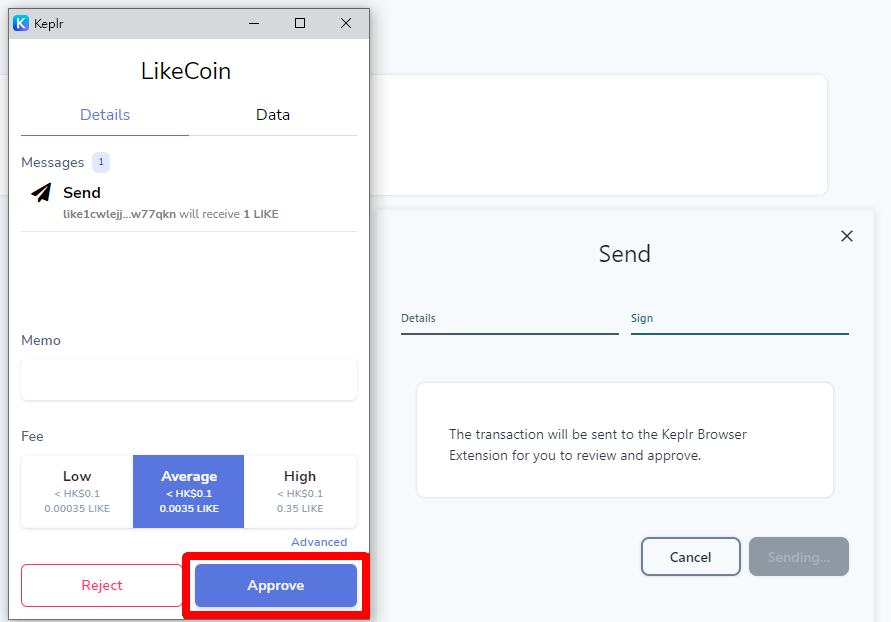
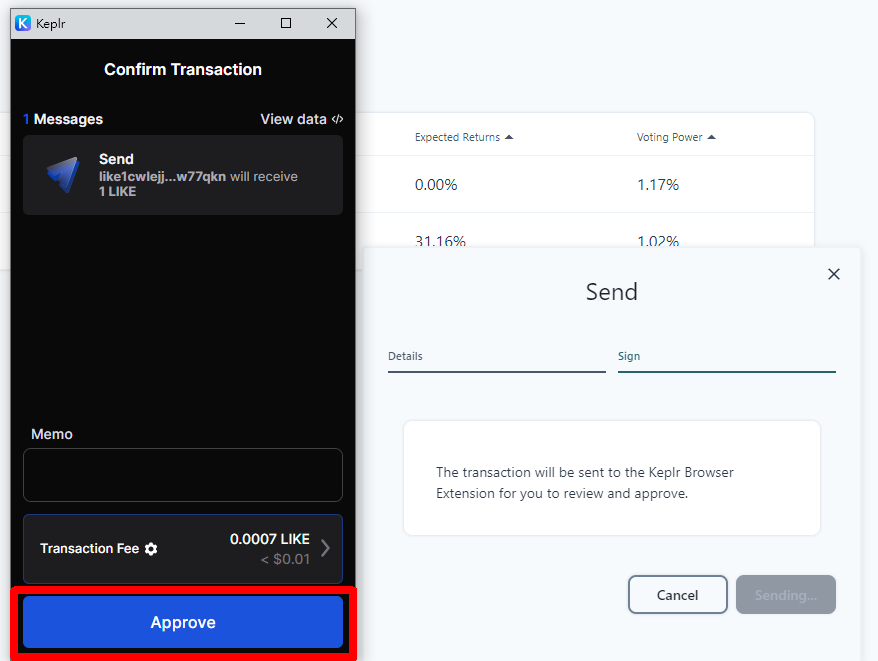
GITBOOK-4473: Keplr: Deposit and Send LikeCoin

diff --git a/general-guides/wallet/keplr/keplr-deposit-and-send-likecoin.md b/general-guides/wallet/keplr/keplr-deposit-and-send-likecoin.md
@@ -8,44 +8,42 @@ description: Deposit and Send LikeCoin directly on Keplr Browser Extension walle
 
 ### Step 1
 
-Before depositing LikeCoin to your Keplr wallet, please change the display on top to show the LikeCoin chain.
+To deposit LikeCoin to your Keplr wallet, please log in and click "Deposit".
 
-<figure><img src="../../../.gitbook/assets/Keplr deposit and send 01.png" alt=""><figcaption><p>Choose LikeCoin chain on Keplr</p></figcaption></figure>
+<figure><img src="../../../.gitbook/assets/Keplr Deposit 1.png" alt=""><figcaption><p>Click "Deposit".</p></figcaption></figure>
 
 ### Step 2
 
-Click on the wallet address to copy it and paste it somewhere else (a crypto exchange or another wallet). Or click "Deposit" to show your QR code.
+Click "Copy" to copy the wallet address and paste it somewhere else (such as a crypto exchange or another wallet). We suggest depositing a small sum first to try it out. You can also click the asterisk to prioritize the LikeCoin wallet address and have it appear at the top of the list for future use.
 
-<figure><img src="../../../.gitbook/assets/Keplr deposit and send 02.png" alt=""><figcaption><p>Copy the wallet address or click "Deposit" to display the QR code</p></figcaption></figure>
-
-Scan the QR code and deposit LikeCoin to your Keplr wallet with LIKE pay. We suggest depositing a small sum to try out first.
-
-<figure><img src="../../../.gitbook/assets/Keplr deposit and send 03.png" alt=""><figcaption><p>Scan the QR code to transfer LikeCoin to your Keplr wallet</p></figcaption></figure>
+<figure><img src="../../../.gitbook/assets/Keplr Deposit 2.png" alt=""><figcaption><p>Click "Copy" to copy the wallet address</p></figcaption></figure>
 
 ### Step 3
 
-The LikeCoin balance will appear (on the same screen as Step 2) after the deposit is completed.
+After the deposit is completed, the LikeCoin balance will appear on the same screen as Step 1.
 
 ## **Send LikeCoin from Keplr to another wallet**
 
 ### Step 1
 
-You can send LikeCoin via Keplr to another wallet that supports LikeCoin. Change the display on top to show the LikeCoin chain and click "Send".
+You can send LikeCoin from Keplr to another wallet that supports the LikeCoin chain. Click "Send" and then choose LikeCoin or click the LikeCoin balance below.
 
-<figure><img src="../../../.gitbook/assets/Keplr deposit and send 04.png" alt=""><figcaption><p>Click "Send"</p></figcaption></figure>
+<figure><img src="../../../.gitbook/assets/Keplr Send 1 (1).png" alt=""><figcaption><p>Click "Send" or LikeCoin balance</p></figcaption></figure>
+
+<figure><img src="../../../.gitbook/assets/Keplr Send 2 (1).png" alt=""><figcaption><p>Select LikeCoin</p></figcaption></figure>
 
 ### Step 2
 
-Fill in the wallet address of the recipient under "Recipient", and the token will be selected automatically as LIKE. The "Amount" field shows the available balance of LIKE in the wallet. Please enter the amount of LikeCoin that needs to be sent and reserve some LIKE for the [transaction fee](../transaction-fee.md). Under "Memo" (optional), fill in the tag/memo that may be required by the recipient. Then click "Send".
+The Send page will appear. Asset displaying your LikeCoin balance. Fill in the recipient's wallet address, the amount of LikeCoin to be sent, and optionally fill in any required tag/memo for the recipient. The estimated [transaction fee](../transaction-fee.md) will be displayed, so please ensure you have enough LIKE reserved for it. Then, click "Send".
 
-<figure><img src="../../../.gitbook/assets/Keplr deposit and send 05.png" alt=""><figcaption><p>Fill in the recipient's wallet address and the amount of LikeCoin to be sent, then click "Send"</p></figcaption></figure>
+<figure><img src="../../../.gitbook/assets/Keplr Send 3 (1).png" alt=""><figcaption><p>Enter the transfer information</p></figcaption></figure>
 
 ### Step 3
 
-On the confirmation screen, check the details again, and then click "Approve".
+On the confirmation screen, review the details again and click "Approve".
 
-<figure><img src="../../../.gitbook/assets/Keplr deposit and send 06.png" alt=""><figcaption><p>Confirm and click "Approve"</p></figcaption></figure>
+<figure><img src="../../../.gitbook/assets/Keplr Send 4 (1).png" alt=""><figcaption><p>Click "Approve"</p></figcaption></figure>
 
-The transaction is complete. Keplr will show that the Tx is pending and return to the LikeCoin balance screen.
+Returning to the home page, you will see "Transaction Success" indicating that the transfer is complete.
 
-![After Keplr shows Tx is pending, the transfer is completed](../../../.gitbook/assets/keplr13.png)
+<figure><img src="../../../.gitbook/assets/Keplr Send 5 (1).png" alt=""><figcaption><p>Transaction Success" indicating that the transfer is complete</p></figcaption></figure>

diff --git a/general-guides/wallet/keplr/dao.like.co.md b/general-guides/wallet/keplr/dao.like.co.md
@@ -6,45 +6,25 @@ description: Keplr + dao.like.co is essential for managing LikeCoin
 
 Use dao.like.co wallet interface together with [Keplr Browser Extension](../cosmostation-app/how-to-install-cosmostation-app.md) to [deposit](dao.like.co.md#deposit-your-likecoin-via-dao.like.co-to-keplr), [send](dao.like.co.md#using-dao.like.co-+-keplr-to-send-likecoin-to-another-wallet) and [delegate](../../stake/delegation-of-likecoin.md) LikeCoin; as well as provide [proposal deposit](../../governance/proposal-deposit.md), [vote](../../governance/direct-vote.md) and [view transaction details](../block-explorer/dao.like.co.md).
 
-## Connect Keplr with LikeCoin chain in dao.like.co
-
-Connect Keplr with LikeCoin chain on dao.like.co. In order for the LikeCoin chain to be displayed in the Keplr Browser extension menu, users have to connect to [https://chains.keplr.app/](https://chains.keplr.app/) or [dao.like.co](https://dao.like.co/).
-
-{% hint style="warning" %}
-The LikeCoin chain was successfully upgraded to the LaiChiKok version on May 4, 2022. The new LikeCoin wallet address has the prefix "like1" and also supports the "cosmos1" prefix. If your Keplr was installed before this date and you still use the cosmos1 prefix on the LikeCoin chain, you need to upgrade your wallet address. Please see the [New LikeCoin address prefix "like" - FAQ](../like-address-prefix.md) for details.
-{% endhint %}
+## Log in to dao.like.co
 
 ### Step 1
 
-Go to [dao.like.co](https://dao.like.co/) and click "Keplr Browser Extension".
+Login Keplr and go to [dao.like.co](https://dao.like.co/) and click "Keplr Browser Extension".
 
-<figure><img src="../../../.gitbook/assets/keplr06.png" alt=""><figcaption><p>Go to dao.like.co, click "Keplr Browser Extension"</p></figcaption></figure>
+<figure><img src="../../../.gitbook/assets/Keplr + dao.like.co 1.png" alt=""><figcaption><p>Go to dao.like.co, click "Keplr Browser Extension"</p></figcaption></figure>
 
 ### Step 2
 
 Then click "Approve" on Keplr.
 
-<figure><img src="../../../.gitbook/assets/keplr07.png" alt=""><figcaption><p>Click "Approve" on Keplr</p></figcaption></figure>
+<figure><img src="../../../.gitbook/assets/Keplr + dao.like.co 2.png" alt=""><figcaption><p>Click "Approve" on Keplr</p></figcaption></figure>
 
 ### Step 3
 
-Click "Approve" again.
-
-<figure><img src="../../../.gitbook/assets/keplr08.png" alt=""><figcaption><p>Click "Approve" on Keplr again</p></figcaption></figure>
-
-### Step 4
-
 You can see your LikeCoin balance.
 
-<figure><img src="../../../.gitbook/assets/keplr09.png" alt=""><figcaption><p>LikeCoin balance appears on dao.like.co</p></figcaption></figure>
-
-### Step 5
-
-LikeCoin chain appears in the Keplr menu and displays the LikeCoin balance.
-
-<figure><img src="../../../.gitbook/assets/Keplr menu 1.png" alt=""><figcaption><p>LikeCoin chain displays on Keplr</p></figcaption></figure>
-
-<figure><img src="../../../.gitbook/assets/Keplr menu 2.png" alt=""><figcaption><p>LikeCoin balance eppears</p></figcaption></figure>
+<figure><img src="../../../.gitbook/assets/Keplr + dao.like.co 3.png" alt=""><figcaption><p>LikeCoin balance appears on dao.like.co</p></figcaption></figure>
 
 ## **Deposit your LikeCoin via dao.like.co to Keplr**
 
